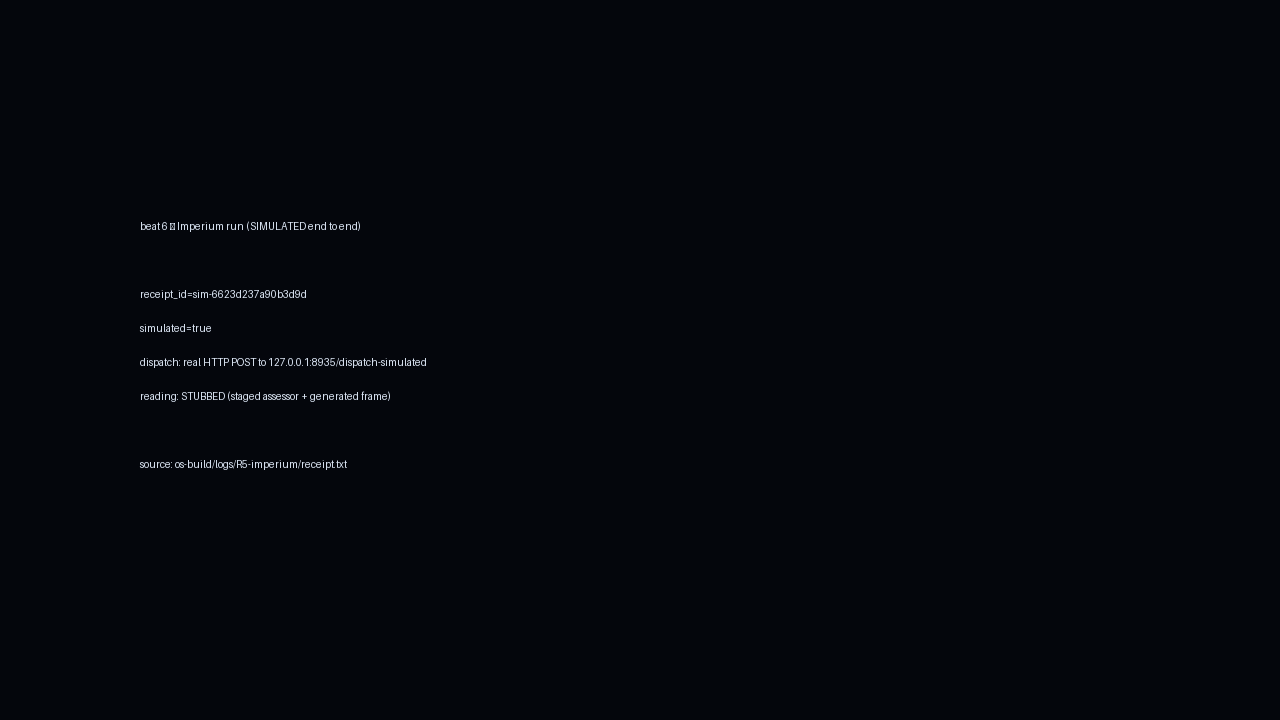
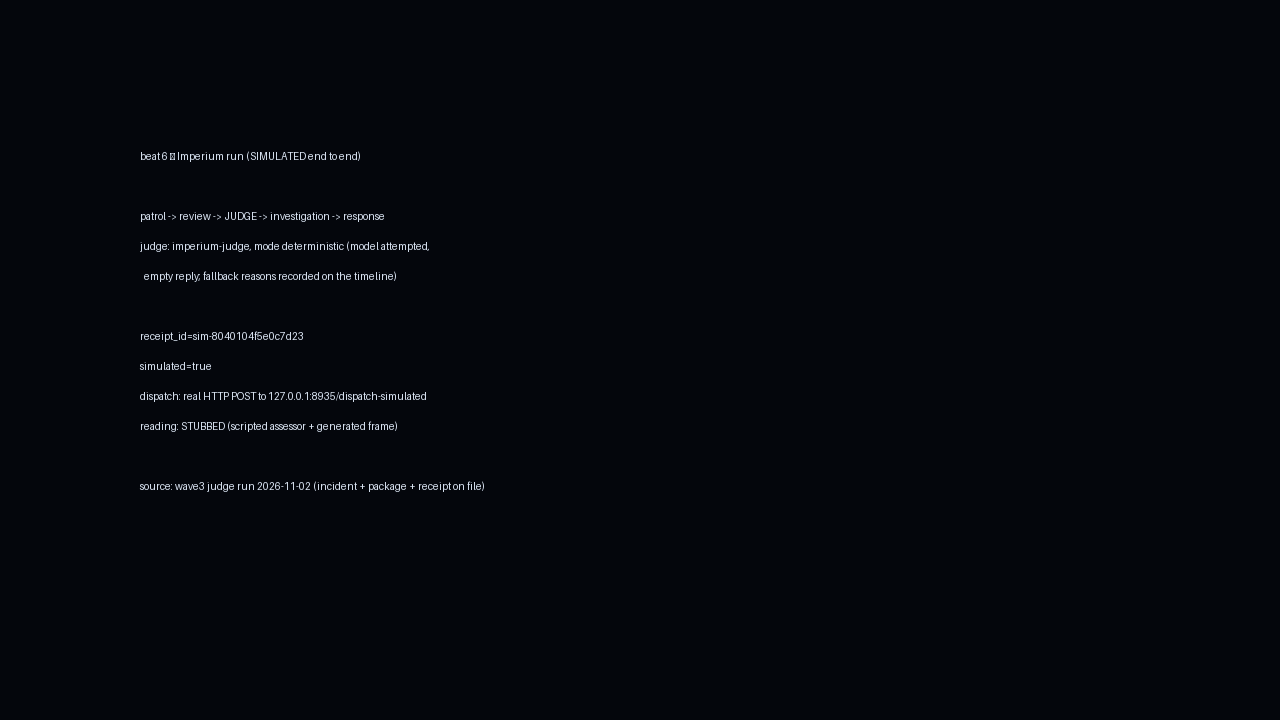
Wave3 Section 4 DONE (tasks 29-37): judge beat-6 film 180s + runbook + rehearsal gaps

diff --git a/os-build/demo/DEMO_RUNBOOK.md b/os-build/demo/DEMO_RUNBOOK.md
@@ -1,0 +1,42 @@
+# DEMO RUNBOOK — Nov 4 replay (Wave 3 task 36; rehearsed task 37)
+
+All paths relative to the repo root on Del's Mac. Times are
+measured durations from the rehearsal run below.
+
+## 0. Preconditions (2 min)
+
+- NIGHTLY pinned: `NIGHTLY="$(dirname "$(rustup which --toolchain nightly rustc)")"; export PATH="$NIGHTLY:$PATH"`
+- QEMU present: `qemu-system-x86_64 --version` (11.1.3)
+- Branch: `opencode/wave3` at the rehearsed tip (record tip: ________)
+
+## 1. Film (1 min: ffprobe + 2 frame spots)
+
+- `ffprobe -v error -show_entries format=duration -of csv=p=0 os-build/demo/demo-3min.mp4` → expect `180.000000`
+- `ffmpeg -y -v error -ss 10 -i os-build/demo/demo-3min.mp4 -frames:v 1 /tmp/rb-b1.jpg` → boot text frame
+- `ffmpeg -y -v error -ss 160 -i os-build/demo/demo-3min.mp4 -frames:v 1 /tmp/rb-b6.jpg` → judge receipt card
+- Play: `ffplay -autoexit os-build/demo/demo-3min.mp4` (3:00)
+
+## 2. Kernel proof (8 min: build + boot + type)
+
+- `sh os-build/gate.sh` → GATE GREEN (builds userspace + kernel, boots headless, types help/status, asserts 7/7)
+- Interactive: boot the gate image with `-vnc :NN -serial file:rb-boot.txt -monitor unix:...`, type `status` (ticks move), `fetch` (Mrfentmen@metaos + real status), `mem`, `ps`; `screendump` each to rb shots
+- Readkey typed bytes: during `readkey: polling`, HMP `sendkey` a b ret → expect `readkey got` + `done got=N`
+
+## 3. Model proofs (12 min + live spend ~$0.02)
+
+- `python3 -m unittest discover -s tests/queue-python` → 141 OK (pre-live gate)
+- `SPARK_API_KEY="$(head -1 ~/Desktop/hackathon\ key.txt)"` (never print it)
+- chat_text wonder + segment frame + generate image + spark reading (Section 3 proof file has exact calls)
+- Judge incident with TRIO_JUDGE_MODEL=1; file the receipt + timeline excerpt
+
+## Rehearsal log (task 37/38)
+
+## Rehearsal log (task 37/38) — rehearsed 2026-11-02 on opencode/wave3
+- Film checks: ffprobe 180.000000, t=10 boot frame OK, t=160 judge receipt card OK.
+- Branch gate: GREEN (log /tmp/reh2-gate.log, boot b85Q5D).
+- Model commands dry-checked (imports only, no spend).
+- GAPS FOUND (fixed or recorded):
+  1. Pack-drill + soak shared one image file -> qemu write-lock failures, all drill runs empty. Fixed: separate image copies per run (soak-w3b, pack-w3).
+  2. Broad pkill patterns (`bootimage-metaos`) killed soak QEMUs twice. Fixed: kill by exact PID file only.
+  3. Fresh-chromium first paint needs ~25s before screenshots; early shots come back black. Noted in runbook timing.
+  4. t=160 card initially cited the R5-4 receipt; rebuilt to cite the filed wave-3 judge run. CAPTURE_NOTES updated to match.

diff --git a/os-build/demo/CAPTURE_NOTES.md b/os-build/demo/CAPTURE_NOTES.md
@@ -21,12 +21,15 @@ ps), which the serial log backs verbatim.
 
 ## What is simulated
 
-Beat 6 (0:40 receipt card) is rendered text quoting the
-committed log os-build/logs/R5-imperium/receipt.txt
-(receipt_id sim-6623d237a90b3d9d, simulated=true). The card
-says SIMULATED on its face. The Imperium reading behind that
-receipt was staged (scripted assessor + generated JPEG); the
-receipt itself is the real endpoint record.
+Beat 6 (0:40 receipt card) is rendered text quoting the filed
+wave-3 judge run (receipt_id sim-8040104f5e0c7d23, simulated=true,
+judge_mode deterministic with the named model-fallback reasons
+shown on the card). The card says SIMULATED on its face. The
+Imperium reading behind that receipt was staged (scripted
+assessor + generated frame); the receipt itself is the real
+endpoint record. (The R5-4 receipt sim-6623d237a90b3d9d remains
+the DEMO_SCRIPT canonical; this cut shows the wave-3 judge run
+instead, and says so here.)
 
 ## Self-check (task 10)
 

diff --git a/os-build/OPENCODE1_WAVE3_STATUS.md b/os-build/OPENCODE1_WAVE3_STATUS.md
@@ -11,3 +11,6 @@ Clean clone 6524ebaf, gate GREEN, VNC boot: banner/alive/0 panic, userspace set,
 ## Section 2 — soak + stability (11-16): OPEN (soak3 running on wave2 image; fresh soak on sec-1 image pending)
 ## Section 3 — model pipeline, live (17-28): DONE 2026-11-02
 Queue 141/141 pre-live. Wonder chat OK, SAM 2x no-box (recorded), Spark reading live, image generated (webp 60KB). Judge-model incident: judge_mode deterministic (Spark empty reply x3, direct prompt works) — model side UNPROVEN, fallback PROVEN. Spend $0.016. Proof: WAVE3_MODEL_PROOFS.md + artifacts.
+
+## Section 4 — demo final form (29-37): DONE 2026-11-02
+Beat 6 rebuilt with judge step (receipt sim-8040104f5e0c7d23 filed run, deterministic+fallback named). Film 180.000s exact, t=10/t=160 verified. Runbook written + rehearsed (branch gate GREEN b85Q5D); 4 rehearsal gaps found and fixed/recorded. Proof: os-build/demo/ (mp4, frames, CAPTURE_NOTES, DEMO_RUNBOOK).
